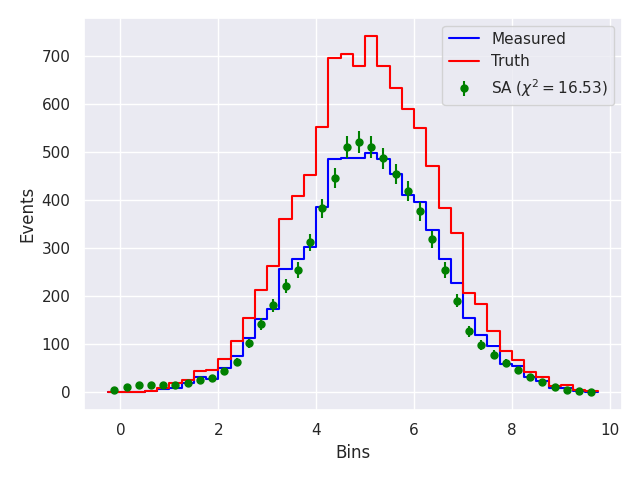
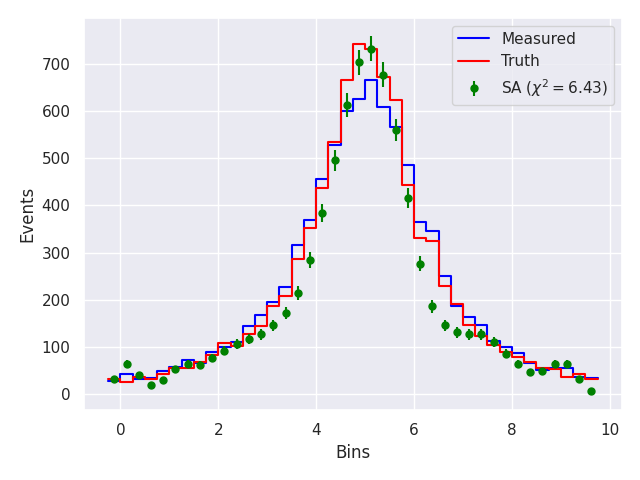
Added a new parameter to the QUnfoldQUBO constructor to deal with the regularization matrix.

diff --git a/src/QUnfold/core/QUnfoldQUBO.py b/src/QUnfold/core/QUnfoldQUBO.py
@@ -19,7 +19,7 @@ class QUnfoldQUBO:
     Class used to perform the unfolding using QUBO problems solution.
     """
 
-    def __init__(self, response, meas, lam=0.0):
+    def __init__(self, response, meas, lam=0.0, reg="laplace"):
         """
         Initialize the QUnfoldQUBO object.
 
@@ -27,11 +27,14 @@ class QUnfoldQUBO:
             response (numpy.ndarray): The response matrix.
             meas (numpy.ndarray): The measured distribution.
             lam (float, optional): The regularization parameter (default is 0.0).
+            reg (string, optional): The regularization operator (default is "laplace"). Possible choices: "laplace", "cowan".
         """
 
         self.R = response
         self.d = meas
         self.lam = lam
+        self.reg = reg
+
         # Normalize the response
         if not self._is_normalized(self.R):
             self.R = self._normalize(self.R)
@@ -116,6 +119,7 @@ class QUnfoldQUBO:
 
         # Get largest power of 2 integer below the total number of entries
         n = int(2 ** np.floor(np.log2(sum(self.d)))) - 1
+
         # Encode integer variables using logarithmic binary encoding
         vars = [LogEncInteger(f"x{i}", value_range=(0, n)) for i in range(len(self.d))]
         return vars
@@ -133,12 +137,21 @@ class QUnfoldQUBO:
 
         hamiltonian = 0
         dim = len(x)
+
         # Add linear terms
         a = -2 * (self.R.T @ self.d)
         for i in range(dim):
             hamiltonian += a[i] * x[i]
+
         # Add quadratic terms
-        G = self._get_laplacian(dim)
+        if self.reg == "laplace":
+            G = self._get_laplacian(dim)
+        elif self.reg == "cowan":
+            G = self._get_cowan_matrix(dim)
+        else:
+            raise ValueError(
+                'The inserted regularization matrix "{}" is not valid!'.format(self.reg)
+            )
         B = (self.R.T @ self.R) + self.lam * (G.T @ G)
         for i in range(dim):
             for j in range(dim):

diff --git a/examples/standard.py b/examples/standard.py
@@ -39,18 +39,18 @@ def main():
     min_bin = 0
     bins = 40
     bias = 0.0
-    smearing = 0.0
-    eff = 0.7
+    smearing = 0.5
+    eff = 1.0
     truth, meas, response = generate(
-        "normal", bins, min_bin, max_bin, samples, bias, smearing, eff
+        "breit-wigner", bins, min_bin, max_bin, samples, bias, smearing, eff
     )
     truth = TH1_to_array(truth, overflow=False)
     meas = TH1_to_array(meas, overflow=False)
     response = TH2_to_array(response.HresponseNoOverflow(), overflow=False)
 
     # Unfold with simulated annealing
-    unfolder = QUnfoldQUBO(response=response, meas=meas, lam=1.0)
-    unfolded_SA = unfolder.solve_simulated_annealing(num_reads=100)
+    unfolder = QUnfoldQUBO(response=response, meas=meas, lam=0.1)
+    unfolded_SA = unfolder.solve_simulated_annealing(num_reads=200)
 
     # Plot information
     plotter = QUnfoldPlotter(

diff --git a/studies/functions/comparisons.py b/studies/functions/comparisons.py
@@ -8,6 +8,9 @@
 # Date:       2023-06-26
 # Copyright:  (c) 2023 Gianluca Bianco under the MIT license.
 
+# STD modules
+import os
+
 # Data science modules
 import matplotlib.pyplot as plt
 import numpy as np
@@ -122,6 +125,8 @@ def plot_comparisons(data, distr, truth, bins, min_bin, max_bin):
         plt.legend()
 
         # Save plot
+        if not os.path.exists("../img/comparisons"):
+            os.makedirs("../img/comparisons")
         plt.savefig("../img/comparisons/{}.png".format(distr))
 
     plt.close()
